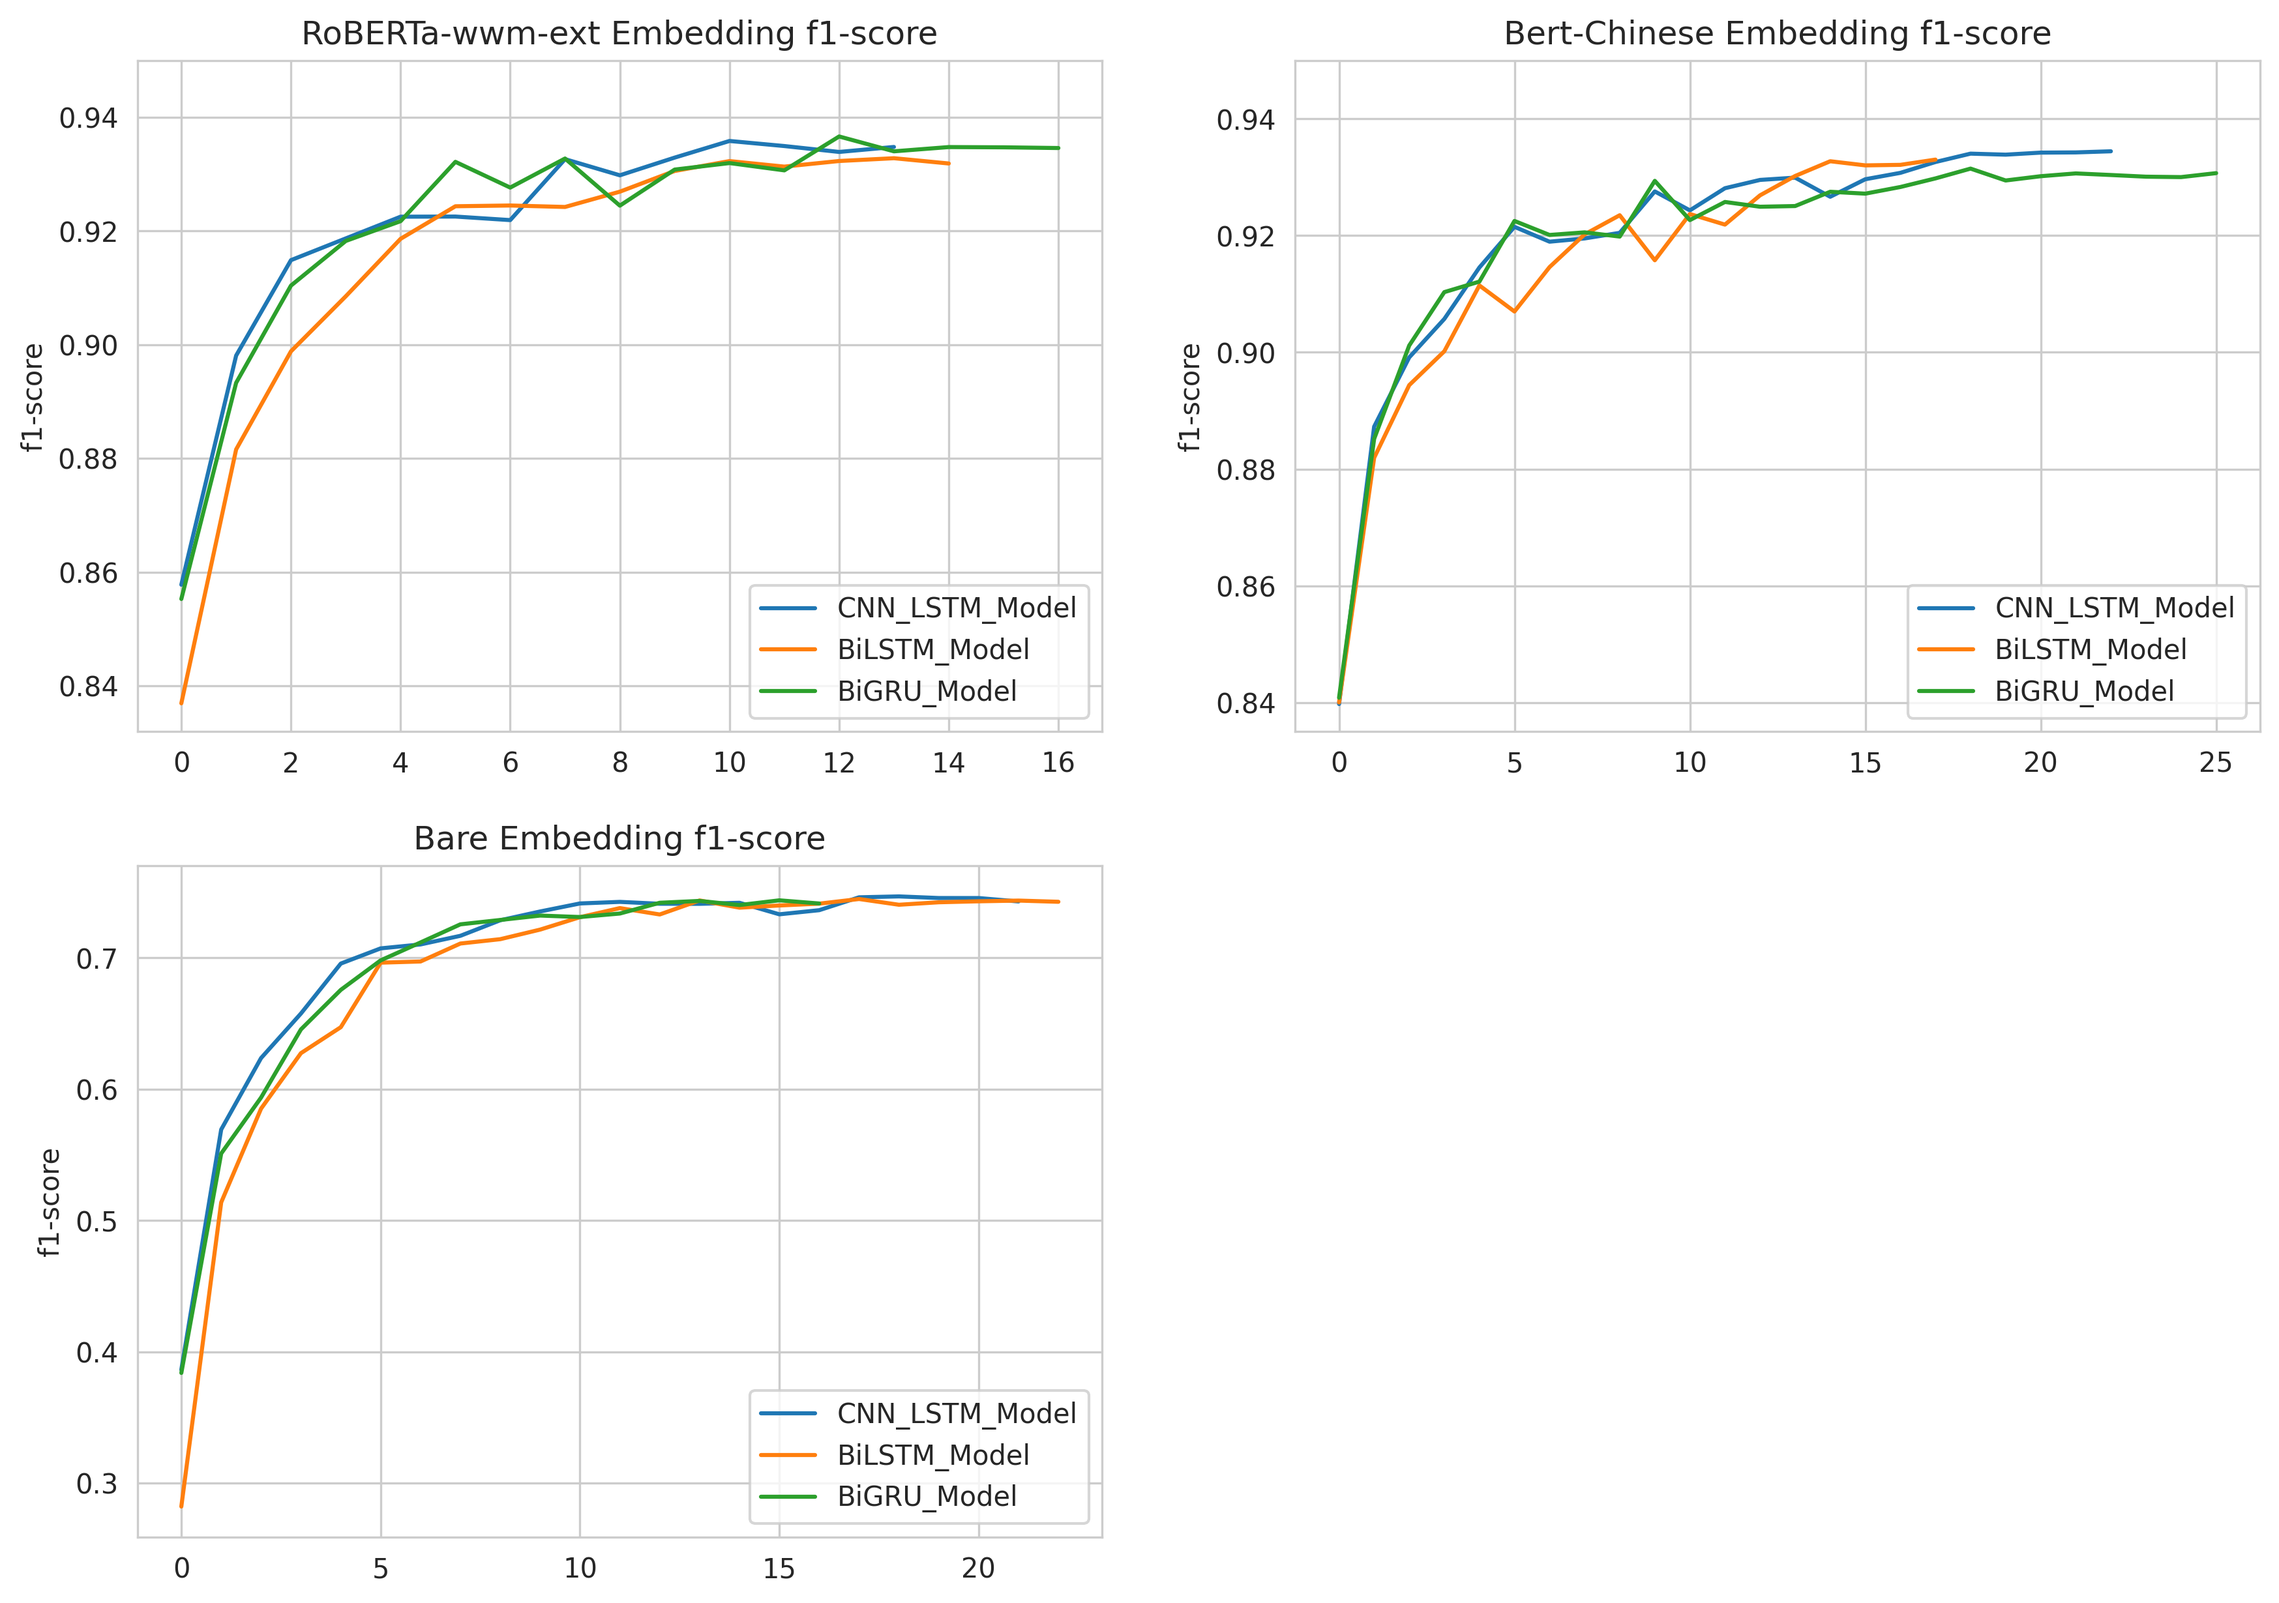
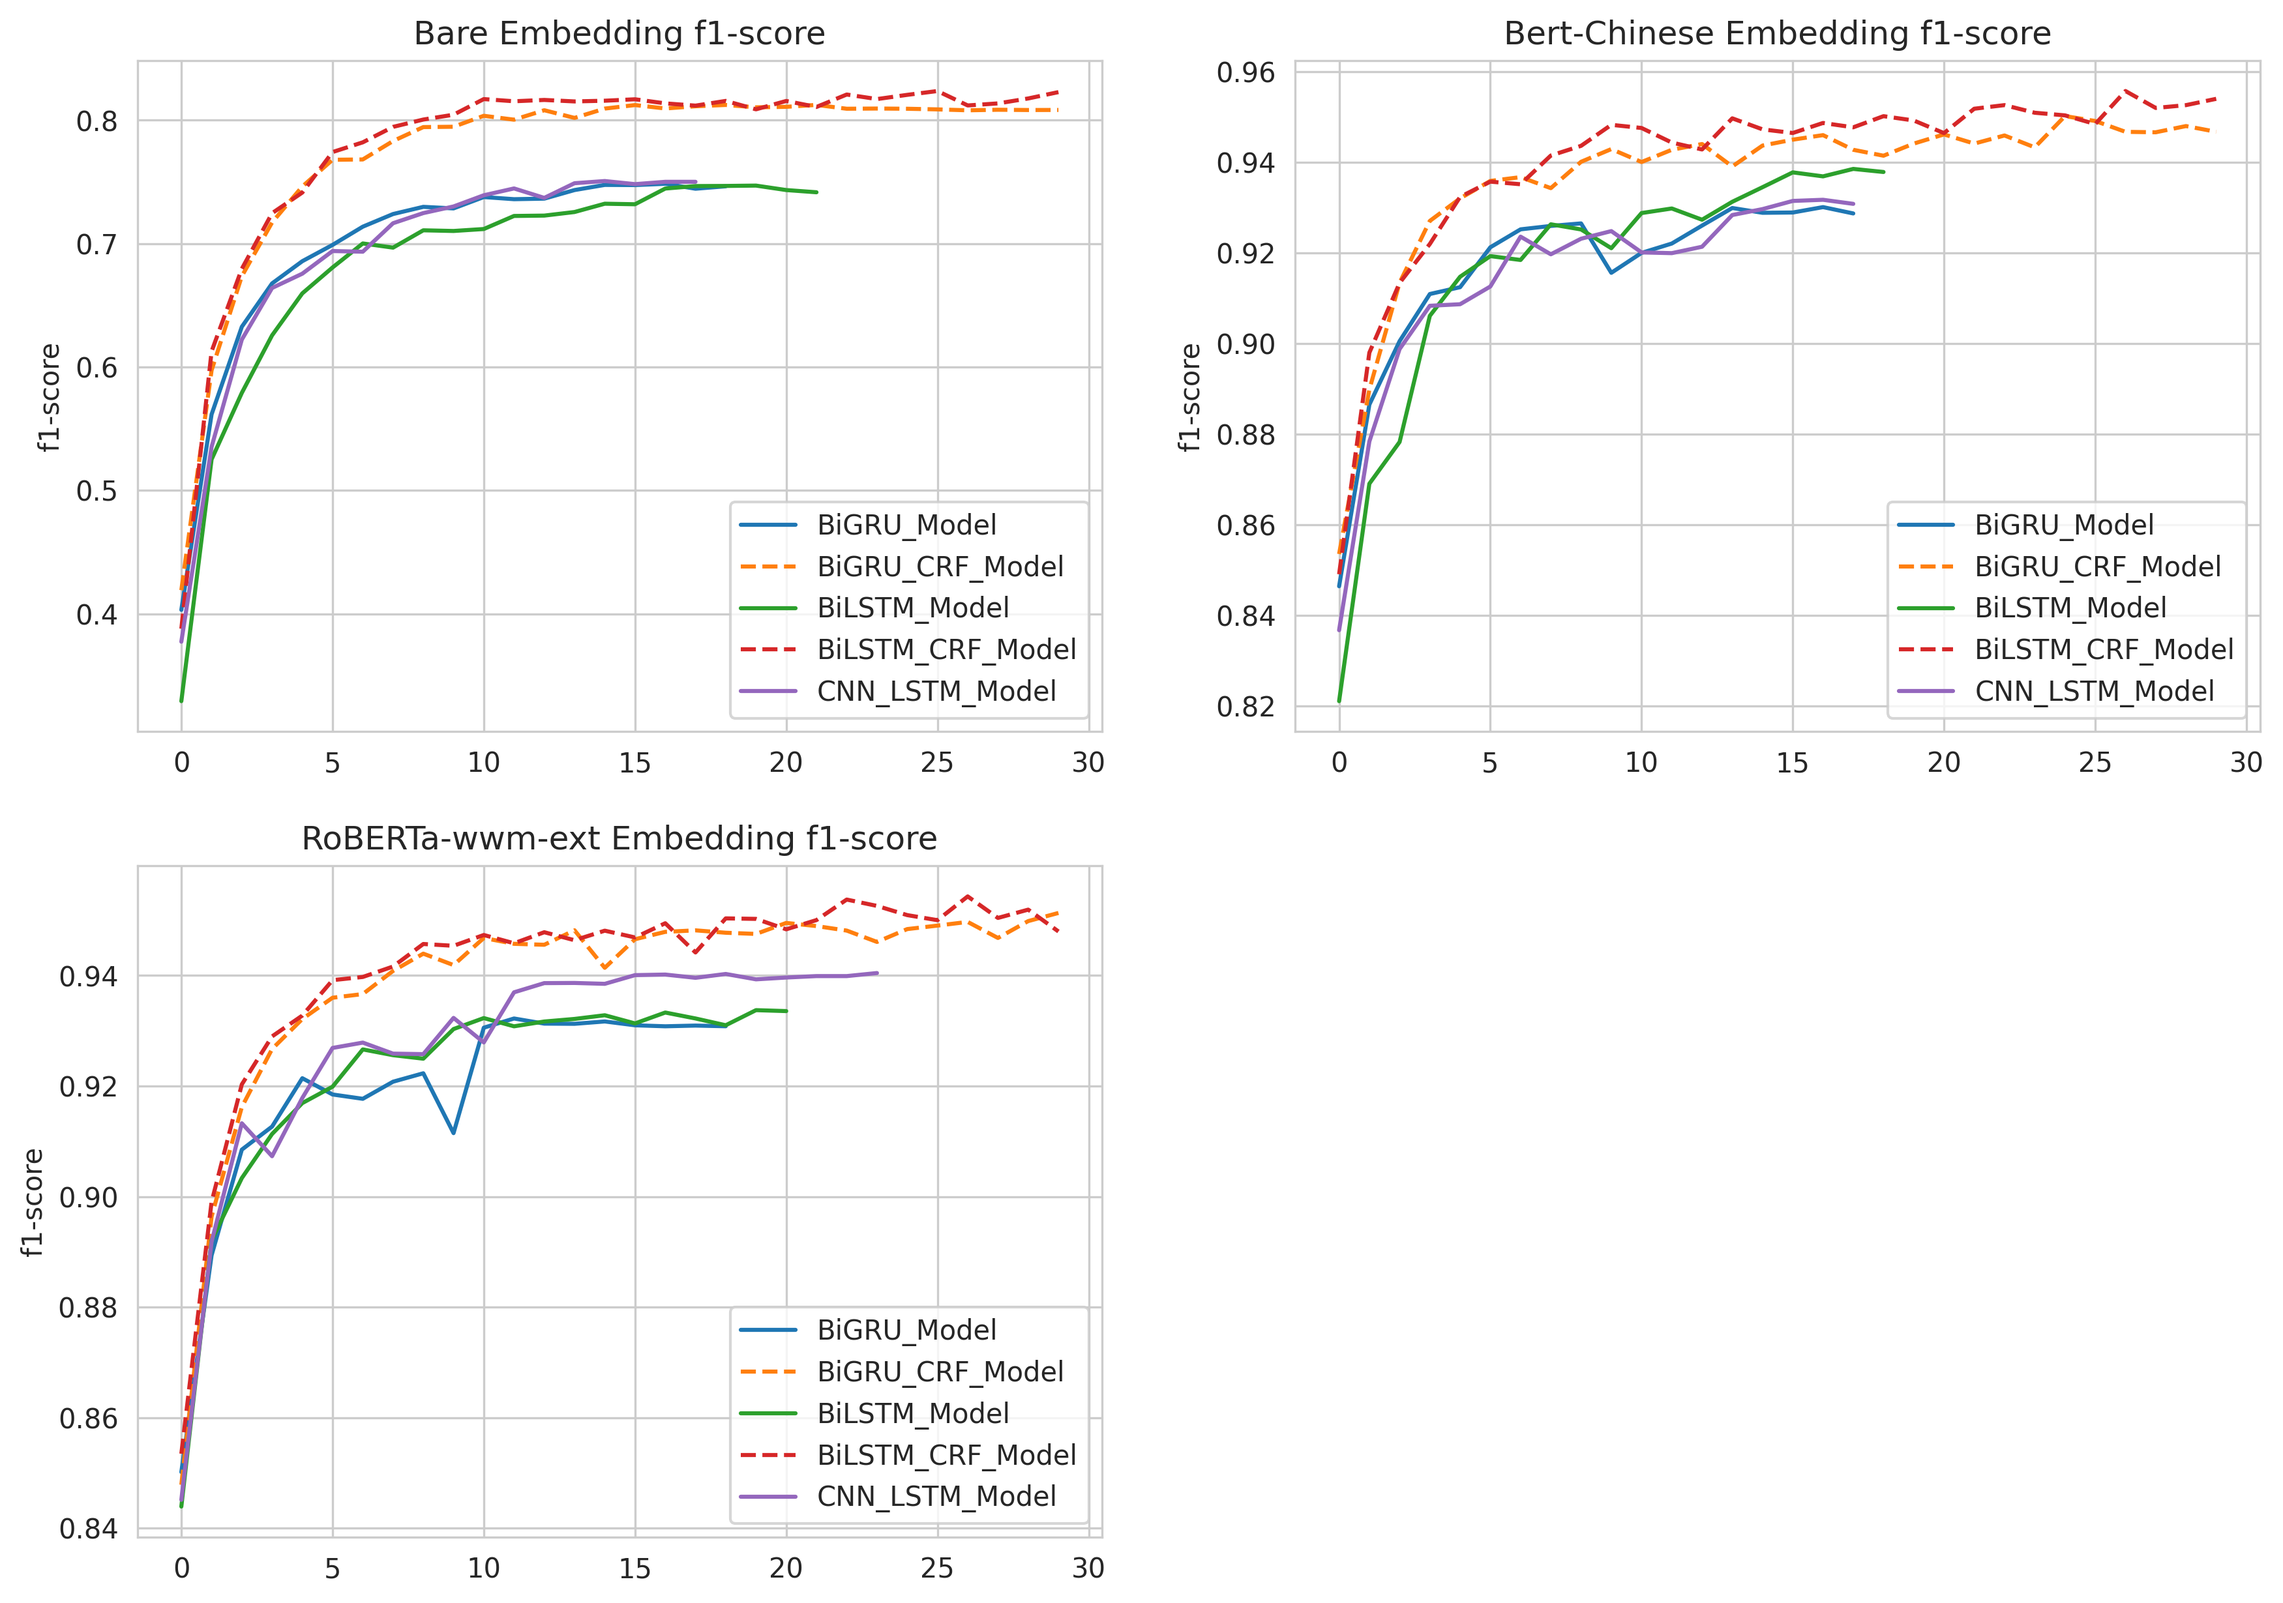
:pencil: writing docs.

diff --git a/docs/tutorial/text-labeling.md b/docs/tutorial/text-labeling.md
@@ -245,19 +245,25 @@ We have run the classification tests on [ChineseDailyNerCorpus](https://kashgari
 - REDUCE_RL_PATIENCE = 5
 - BATCH_SIZE = 64
 
-|    | Embedding       | Model          |   Best F1-Score |   Best F1 @ epochs |
-|---:|:----------------|:---------------|----------------:|-------------------:|
-|  0 | RoBERTa-wwm-ext | CNN_LSTM_Model |           93.58 |                 10 |
-|  1 | RoBERTa-wwm-ext | BiLSTM_Model   |           93.28 |                 13 |
-|  2 | RoBERTa-wwm-ext | BiGRU_Model    |       **93.66** |                 12 |
-|    |                 |                |                 |                    |
-|  3 | Bert-Chinese    | CNN_LSTM_Model |       **93.44** |                 22 |
-|  4 | Bert-Chinese    | BiLSTM_Model   |           93.3  |                 17 |
-|  5 | Bert-Chinese    | BiGRU_Model    |           93.15 |                 18 |
-|    |                 |                |                 |                    |
-|  6 | Bare            | CNN_LSTM_Model |       **74.68** |                 18 |
-|  7 | Bare            | BiLSTM_Model   |           74.48 |                 17 |
-|  8 | Bare            | BiGRU_Model    |           74.38 |                 15 |
+|    | Embedding       | Model            |   Best F1-Score |   Best F1 @ epochs |
+|---:|:----------------|:-----------------|----------------:|-------------------:|
+|  0 | RoBERTa-wwm-ext | BiGRU_Model      |           93.22 |                 11 |
+|  1 | RoBERTa-wwm-ext | BiGRU_CRF_Model  |           95.13 |                 29 |
+|  2 | RoBERTa-wwm-ext | BiLSTM_Model     |           93.37 |                 19 |
+|  3 | RoBERTa-wwm-ext | BiLSTM_CRF_Model |       **95.43** |                 26 |
+|  4 | RoBERTa-wwm-ext | CNN_LSTM_Model   |           94.05 |                 23 |
+|    |                 |                  |                 |                    |
+|  5 | Bert-Chinese    | BiGRU_Model      |           93.01 |                 16 |
+|  6 | Bert-Chinese    | BiGRU_CRF_Model  |           95.01 |                 24 |
+|  7 | Bert-Chinese    | BiLSTM_Model     |           93.85 |                 17 |
+|  8 | Bert-Chinese    | BiLSTM_CRF_Model |       **95.57** |                 26 |
+|  9 | Bert-Chinese    | CNN_LSTM_Model   |           93.17 |                 16 |
+|    |                 |                  |                 |                    |
+| 10 | Bare            | BiGRU_Model      |           74.85 |                 16 |
+| 11 | Bare            | BiGRU_CRF_Model  |           81.24 |                 21 |
+| 12 | Bare            | BiLSTM_Model     |           74.7  |                 19 |
+| 13 | Bare            | BiLSTM_CRF_Model |       **82.37** |                 25 |
+| 14 | Bare            | CNN_LSTM_Model   |           75.07 |                 14 |
 
 
 ![](../_static/images/ner_f1_scores.png)

diff --git a/README.md b/README.md
@@ -74,7 +74,7 @@ Welcome to add performance report.
 
 | Task                       | Language | Dataset                     | Score   |
 | -------------------------- | -------- | --------------------------- | ------- |
-| [Named Entity Recognition] | Chinese  | [People's Daily Ner Corpus] | 93.66	 |
+| [Named Entity Recognition] | Chinese  | [People's Daily Ner Corpus] | 95.57   |
 | [Text Classification]      | Chinese  | [SMP2018ECDTCorpus]         | 94.57   |
 | Neural machine translation |          |                             | // TODO |
 
